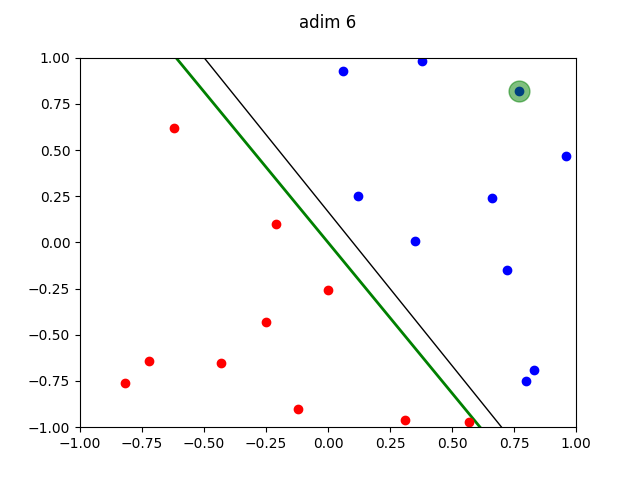
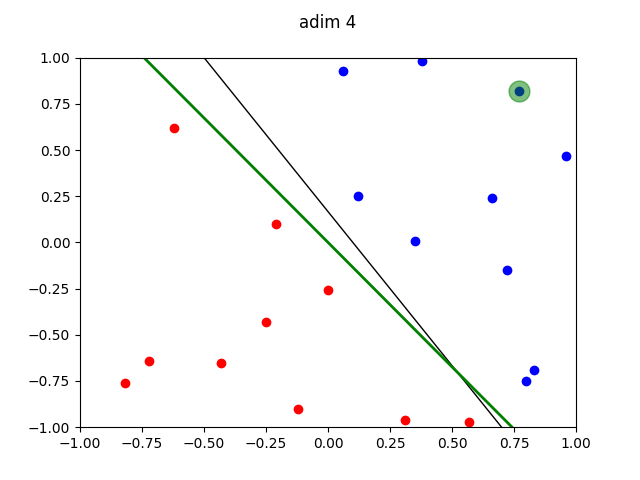
dev

diff --git a/singlelayerperceptron.py b/singlelayerperceptron.py
@@ -64,7 +64,7 @@ for k in range(1, max_iterations):
         # bias ekle
         output = bias + sum
 
-        if output >= threshold:
+        if output > threshold:
             y = 1
         else:
             y = -1     
